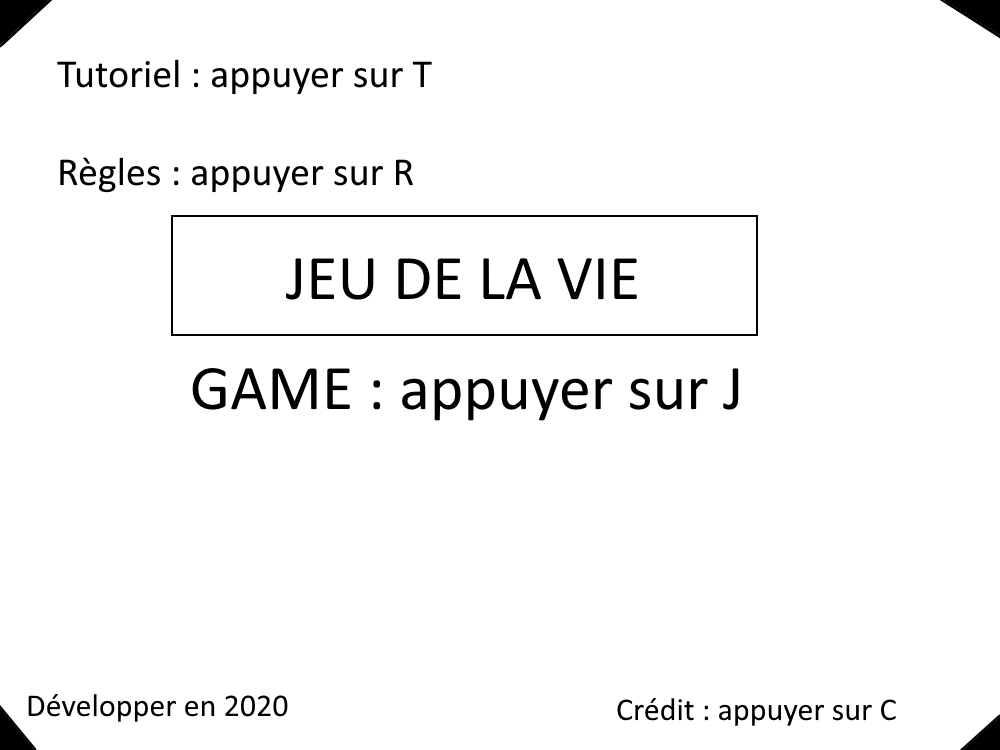
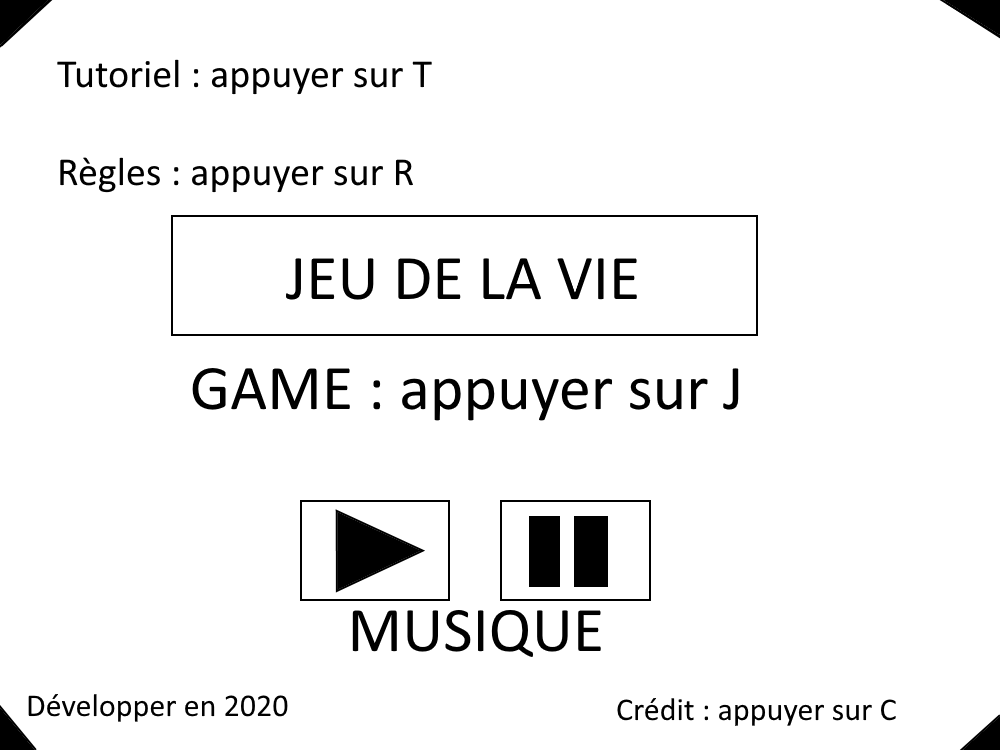
Sound arrangment, creation of musical tools

Changed region(s): [[0.31, 0.6747, 0.62, 0.8893]]

diff --git a/Projet.py b/Projet.py
@@ -255,12 +255,14 @@ class Joueur:
 
 
 continuer = 1
-joue = 0
 while continuer == 1:
     # on charge les images que l'ont utilisera
     page = pygame.display.set_mode((1000, 750))
     acceuil = pygame.image.load("acceuil.png").convert()
+    son_on = pygame.image.load("son_actif.png").convert()
+    son_off = pygame.image.load("son_mute.png").convert()
     page.blit(acceuil, (0, 0))
+    page.blit(son_on, (800, 80))
     credit = pygame.image.load("credit.png").convert()
     regles = pygame.image.load("regles.png").convert()
     tutoriel = pygame.image.load("tutoriel.png").convert()
@@ -278,27 +280,14 @@ while continuer == 1:
     niveauName = ""
     interfaceName = 0
     choix = 0
+    play = 0
+    joue = 0
     while continuer_acceuil:
         for event in pygame.event.get():
             if event.type == pygame.QUIT:  # probleme ici#
                 continuer_accueil = 0
                 continuer = 0
-            if event.type == pygame.KEYUP:
-                if event.key == pygame.K_SPACE and joue == 0:
-                    pygame.mixer.music.play()
-                    joue = 1
-                if event.key == pygame.K_RETURN :
-                    pygame.mixer.music.stop()
-                    joue = 0
             if event.type == pygame.KEYDOWN:
-                if event.key == pygame.K_SPACE and joue == 1:
-                    pygame.mixer.music.pause()
-                    time.sleep(0.3)  # je voulais juste utiliser time
-                    joue = 2
-                elif event.key == pygame.K_SPACE and joue == 2:
-                    pygame.mixer.music.unpause()
-                    time.sleep(0.3)
-                    joue = 1
                 if event.key == pygame.K_ESCAPE:
                     continuer_acceuil = 0
                     continuer = 0
@@ -319,6 +308,28 @@ while continuer == 1:
                 elif event.key == pygame.K_c:
                     continuer_acceuil = 0
                     choix = 5
+
+            if event.type == pygame.MOUSEBUTTONDOWN:
+                if event.button == 1 and 500 < event.pos[1] < 600 and 300 < event.pos[0] < 450:
+                    if play == 0:
+                        pygame.mixer.music.play()
+                        play = 1
+                    else:
+                        pygame.mixer.music.unpause()
+                if event.button == 1 and 500 < event.pos[1] < 600 and 500 < event.pos[0] < 650:
+                    pygame.mixer.music.pause()
+                if event.button == 1 and 80 < event.pos[1] < 145 and 800 < event.pos[0] < 880:
+                    if joue == 1:
+                        play = 0
+                        page.blit(son_on, (800, 80))
+                        pygame.display.flip()
+                        joue = 0
+                    elif joue == 0:
+                        pygame.mixer.music.stop()
+                        page.blit(son_off, (800, 80))
+                        pygame.display.flip()
+                        joue = 1
+                        play = 1
 
     pygame.display.flip()
     # Affiche la page des règles
